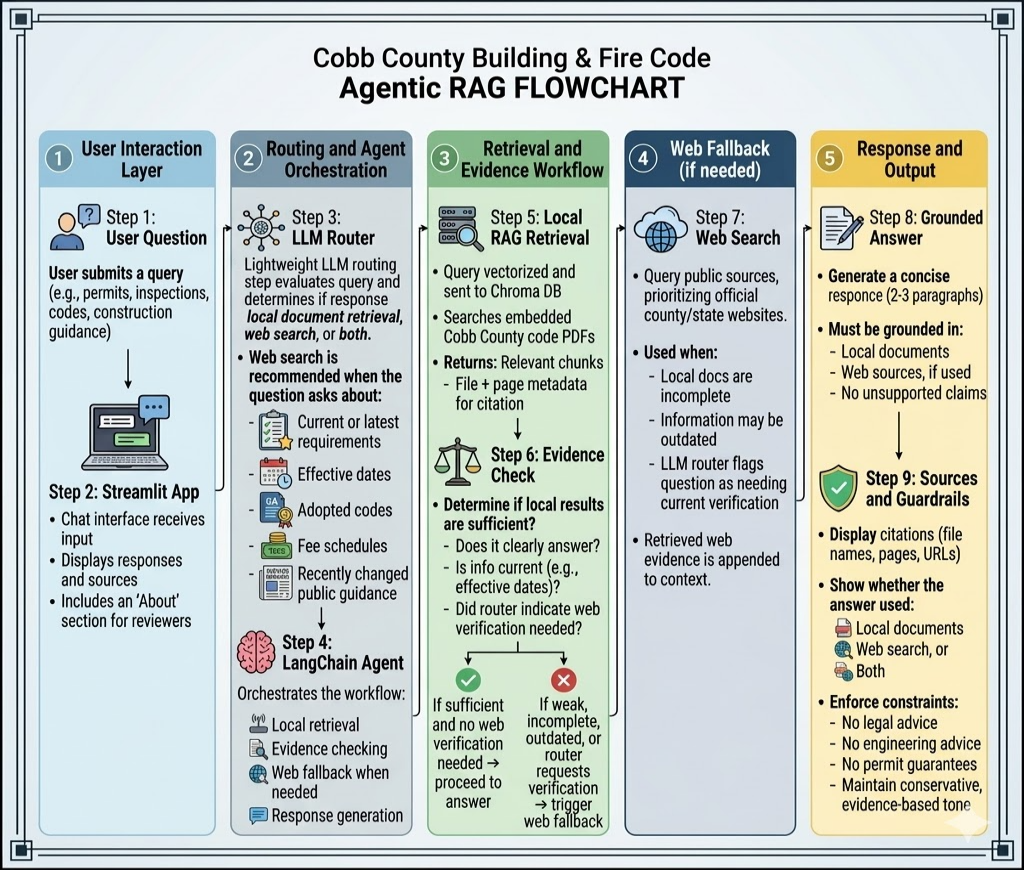
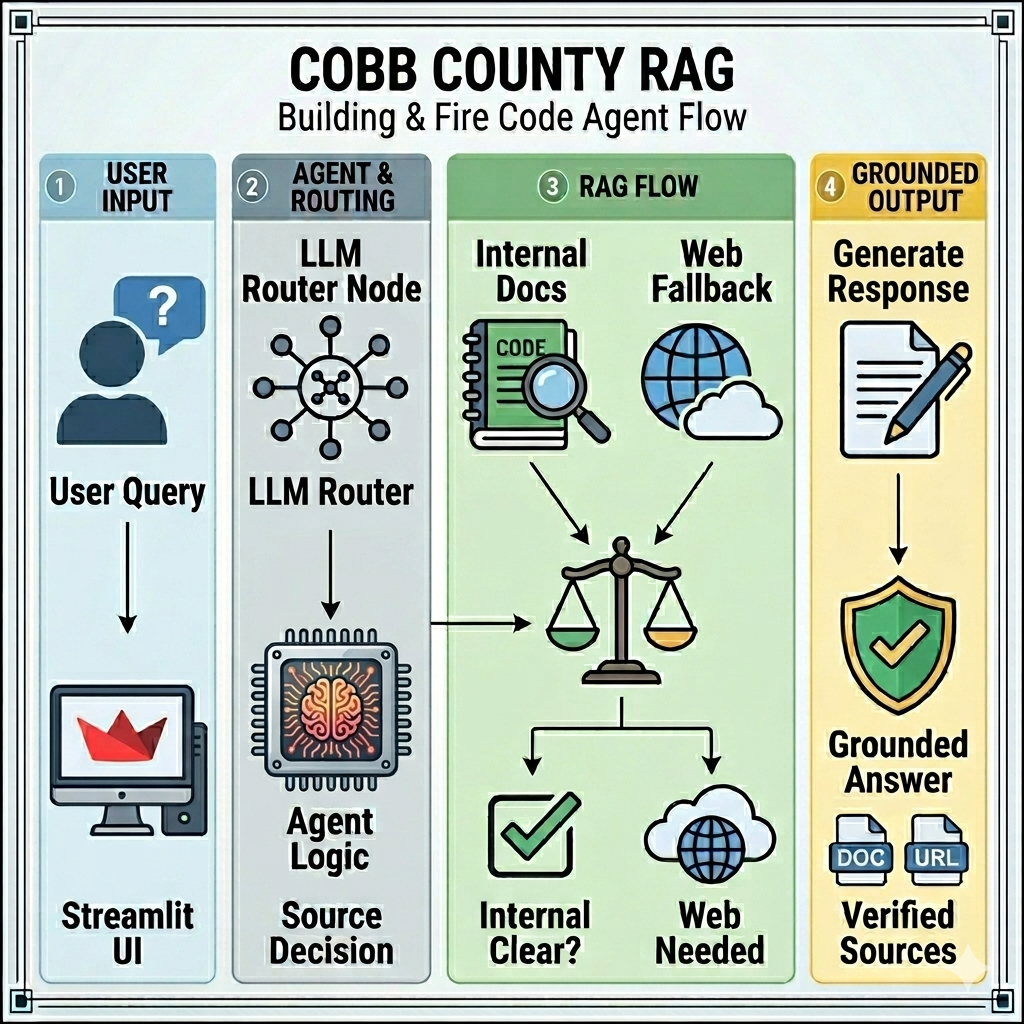
Updated thumbnail and images for Agentic RAG project

diff --git a/assets/projects/project-cobb-county-code-rag-assistant/project-cobb-county-code-rag-assistant.html b/assets/projects/project-cobb-county-code-rag-assistant/project-cobb-county-code-rag-assistant.html
@@ -70,7 +70,7 @@ title: "Cobb County Building & Fire Code Agentic RAG Assistant | Husayn El Shari
 
                 <!-- Large hero screenshot (4:3 - 1000x750px) -->
                 <div class="project-hero-image">
-                    <img src="/assets/projects/project-cobb-county-code-rag-assistant/project-cobb-county-code-rag-assistant-thumb.png"
+                    <img src="/assets/projects/project-cobb-county-code-rag-assistant/project-cobb-county-code-rag-assistant-flowchart.png"
                         alt="Cobb County building and fire code agentic RAG project architecture flowchart" />
                 </div>
 
@@ -206,7 +206,7 @@ title: "Cobb County Building & Fire Code Agentic RAG Assistant | Husayn El Shari
                 </div>
 
                 <div class="project-figure">
-                    <img src="/assets/projects/project-cobb-county-code-rag-assistant/project-cobb-county-code-rag-assistant-thumb.png"
+                    <img src="/assets/projects/project-cobb-county-code-rag-assistant/project-cobb-county-code-rag-assistant-flowchart.png"
                         alt="Agentic RAG flowchart showing local retrieval, evidence check, web fallback, and grounded response generation" />
                 </div>
             </section>